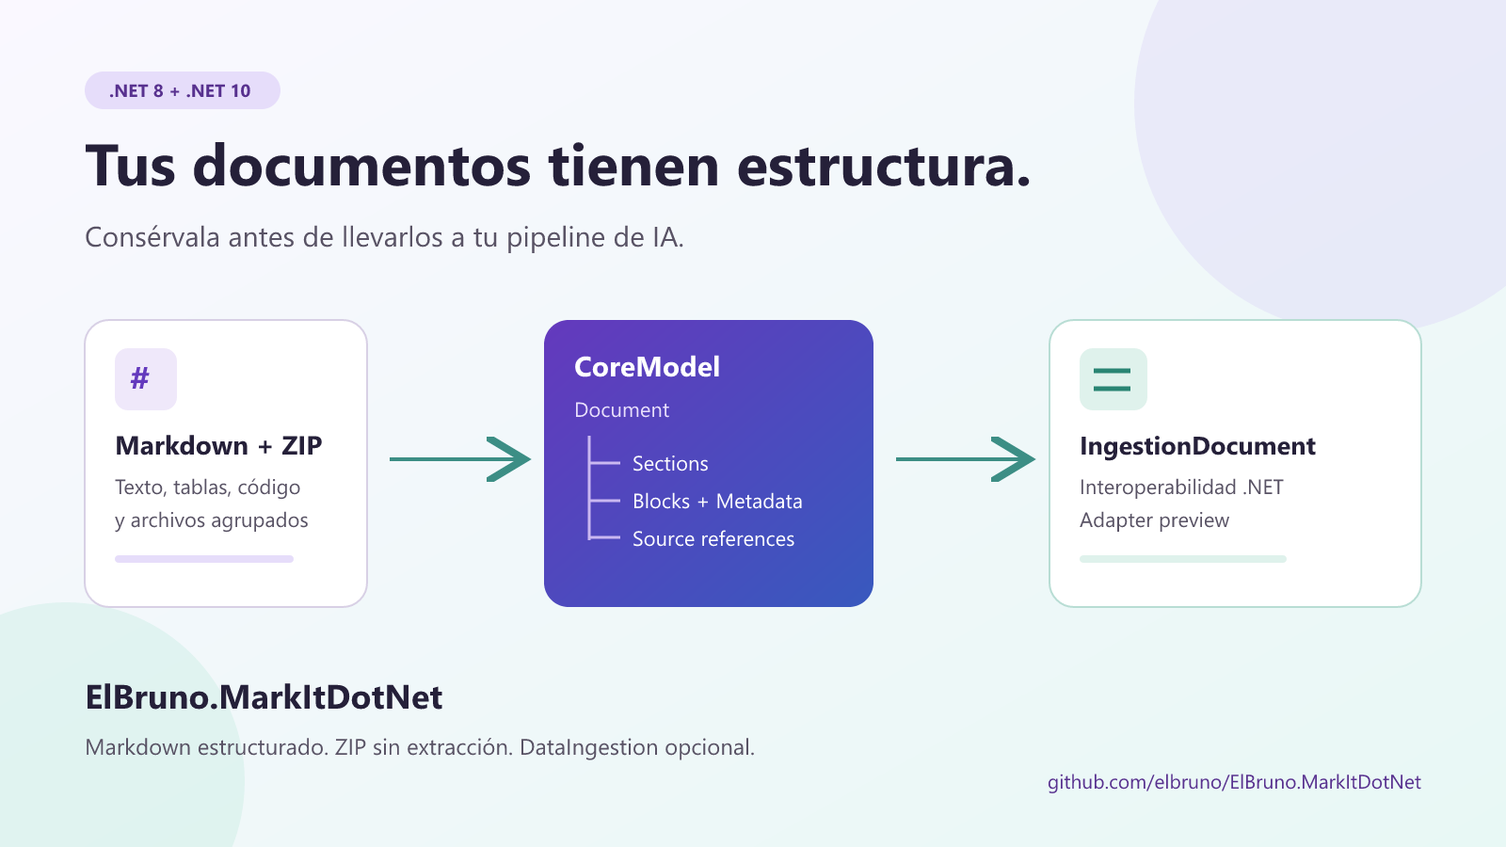
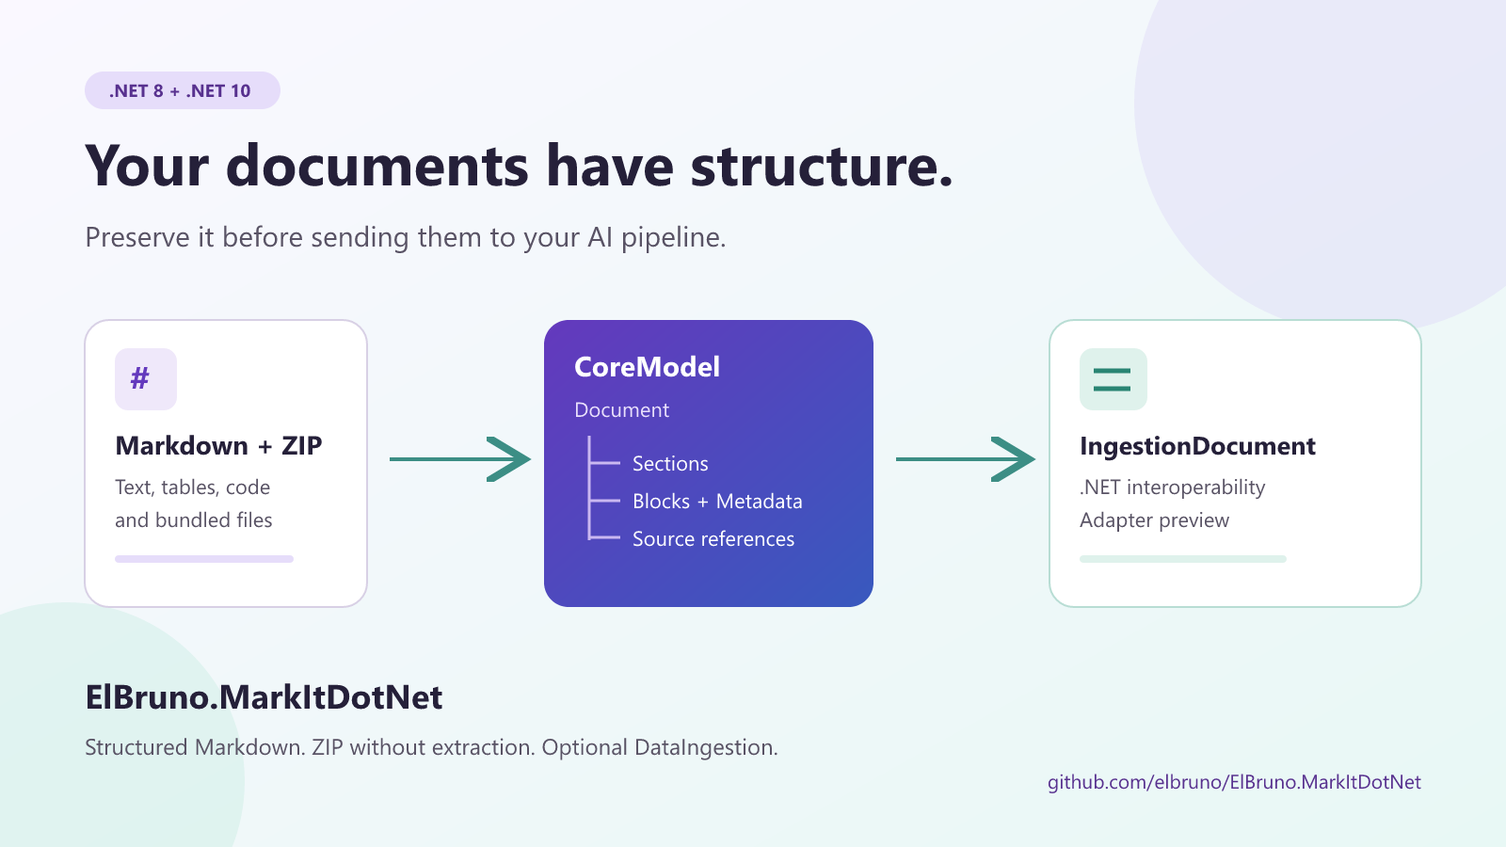
docs: translate ingestion blog and illustrations into English
Copilot-Session: ab4f57a8-6103-4b5e-8510-a93bc5ed1320

diff --git a/docs/blog-markdown-zip-data-ingestion.md b/docs/blog-markdown-zip-data-ingestion.md
@@ -1,24 +1,24 @@
-# De un ZIP a un documento listo para tu pipeline de IA, con C# y MarkItDotNet
+# From a ZIP Archive to an AI Ingestion Document with C# and MarkItDotNet
 
-![ElBruno.MarkItDotNet conecta Markdown y ZIP con documentos estructurados e interoperabilidad .NET](../images/blog-ingestion-hero.png)
+![ElBruno.MarkItDotNet connects Markdown and ZIP archives to structured documents and .NET interoperability](../images/blog-ingestion-hero.png)
 
-> Borrador para publicar y promocionar posteriormente. El adaptador DataIngestion se distribuye como `0.9.3-preview.1`. Los ejemplos de Markdown y ZIP usan el código actual del repositorio y no requieren asumir que esas funcionalidades ya estén en un release estable.
+> Draft for future publication and promotion. The DataIngestion adapter is available as `0.9.3-preview.1`. The Markdown and ZIP examples use the current repository source, without assuming those features are already available in a stable release.
 
-Hola!
+Hi!
 
-Convertir un PDF a Markdown está muy bien. Pero cuando estás preparando documentos para un pipeline de IA, aparece la siguiente pregunta: **¿qué hago con ese Markdown después?**
+Converting a PDF to Markdown is great. But when you are preparing documents for an AI pipeline, the next question is: **what do I do with that Markdown afterward?**
 
-Un documento no es solamente una cadena de texto. Tiene títulos, secciones, tablas, listas, ejemplos de código y referencias al origen. Si aplanamos todo demasiado pronto, perdemos información que puede ser útil al decidir cómo dividirlo, enriquecerlo o mostrar una cita.
+A document is more than a string. It has titles, sections, tables, lists, code examples, and references to its source. Flatten everything too early, and you lose information that could help you decide how to split it, enrich it, or display a citation.
 
-En [ElBruno.MarkItDotNet](https://github.com/elbruno/ElBruno.MarkItDotNet) agregué tres piezas para trabajar con ese siguiente paso: importación estructurada de Markdown con Markdig, un conector ZIP que no extrae archivos a disco y un adaptador opcional para `Microsoft.Extensions.DataIngestion`.
+I added three pieces to [ElBruno.MarkItDotNet](https://github.com/elbruno/ElBruno.MarkItDotNet) to support that next step: structured Markdown import with Markdig, a ZIP connector that does not extract files to disk, and an optional adapter for `Microsoft.Extensions.DataIngestion`.
 
-La idea no es implementar todo el pipeline de IA en una biblioteca. Es conectar bien sus etapas.
+The goal is not to implement an entire AI pipeline in one library. It is to connect its stages well.
 
-## Primero: qué está disponible y cómo probarlo
+## First: What Is Available and How to Try It
 
-El adaptador `ElBruno.MarkItDotNet.DataIngestion` apunta a .NET 8 y .NET 10. Su dependencia de Microsoft está en preview y queda aislada del CoreModel.
+The `ElBruno.MarkItDotNet.DataIngestion` adapter targets .NET 8 and .NET 10. Its Microsoft dependency is in preview and stays isolated from CoreModel.
 
-Para probar **el adaptador publicado** en una aplicación nueva:
+To try **the published adapter** in a new application:
 
 ```powershell
 dotnet new console -n AdapterDemo -f net10.0
@@ -26,9 +26,9 @@ Set-Location AdapterDemo
 dotnet add package ElBruno.MarkItDotNet.DataIngestion --version 0.9.3-preview.1
 ```
 
-Este comando usa el SDK de .NET 10. El adaptador también incluye un target para .NET 8. CoreModel llega como dependencia del adaptador. No es necesario instalar el paquete completo de pipelines de Microsoft para ejecutar `ToIngestionDocument()`.
+This command uses the .NET 10 SDK. The adapter also includes a .NET 8 target. CoreModel comes in as a dependency of the adapter. You do not need to install Microsoft's full pipeline package to call `ToIngestionDocument()`.
 
-Para probar **las tres piezas juntas**, el repositorio incluye una demo ejecutable que usa referencias a proyectos:
+To try **all three pieces together**, the repository includes a runnable demo that uses project references:
 
 ```powershell
 git clone https://github.com/elbruno/ElBruno.MarkItDotNet.git
@@ -36,13 +36,13 @@ Set-Location ElBruno.MarkItDotNet
 dotnet run --project src\samples\MarkdownIngestionDemo\MarkdownIngestionDemo.csproj --framework net8.0
 ```
 
-La demo genera su propio ZIP de prueba con Markdown, JSON y texto, procesa sus entradas y elimina ese archivo temporal al terminar. No necesita servicios de IA, claves API ni documentos privados.
+The demo creates its own test ZIP containing Markdown, JSON, and text, processes the entries, and deletes the temporary archive when it finishes. It does not need AI services, API keys, or private documents.
 
-## 1. El adaptador, en un ejemplo que funciona solo con NuGet
+## 1. A Minimal Adapter Example Using Only NuGet
 
-Voy a empezar por lo más pequeño: construir un documento y adaptarlo.
+Let's start small: build a document and adapt it.
 
-Este programa completo puede reemplazar el `Program.cs` de `AdapterDemo`:
+This complete program can replace `Program.cs` in `AdapterDemo`:
 
 ```csharp
 using ElBruno.MarkItDotNet.CoreModel;
@@ -88,13 +88,13 @@ foreach (var element in ingestion.EnumerateContent())
 }
 ```
 
-El resultado mantiene el identificador del documento. El título pasa a un encabezado de nivel 1; el encabezado de la sección y el párrafo se convierten en elementos nativos de Microsoft.
+The result keeps the document identifier. The title becomes a level 1 header, while the section heading and paragraph become native Microsoft ingestion elements.
 
-No hay una llamada a un LLM escondida aquí. No hay embeddings ni indexación automática. Es un cambio de representación para que otros componentes puedan consumir el documento.
+There is no hidden LLM call here. No embeddings or automatic indexing. This is a change of representation so that other components can consume the document.
 
-## 2. Markdown deja de ser solamente un string
+## 2. Markdown Becomes More Than a String
 
-En la demo del repositorio, este Markdown es nuestra entrada:
+In the repository demo, this Markdown is our input:
 
 ````markdown
 # Deployment guide
@@ -119,7 +119,7 @@ Console.WriteLine("Ready!");
 > Review before deploying.
 ````
 
-La nueva API de importación es intencionalmente pequeña:
+The new import API is intentionally small:
 
 ```csharp
 using ElBruno.MarkItDotNet.Markdown;
@@ -131,15 +131,15 @@ Console.WriteLine($"Format: {model.Metadata.SourceFormat}");
 Console.WriteLine($"Document ID: {model.Id}");
 ```
 
-Markdig interpreta CommonMark y sus extensiones avanzadas. El parser transforma el resultado en `Document`, `DocumentSection` y bloques del CoreModel.
+Markdig parses CommonMark and its advanced extensions. The parser maps the result to `Document`, `DocumentSection`, and CoreModel blocks.
 
-El primer H1 inicial se usa como título. Los demás encabezados forman la jerarquía de secciones. Los párrafos, tablas, listas, código y citas tienen representaciones propias; el contenido de bloques no modelados se conserva como Markdown crudo.
+An initial H1 becomes the document title. Other headings form the section hierarchy. Paragraphs, tables, lists, code, and block quotes have their own representations; unsupported block content is retained as raw Markdown.
 
-Eso también significa que el conversor Markdown existente mantiene su comportamiento: **la importación estructurada es opcional**, no un reemplazo obligatorio del pass-through.
+The existing Markdown converter keeps its behavior: **structured import is optional**, not a mandatory replacement for Markdown pass-through.
 
-### Recorrer las secciones sin perder su jerarquía
+### Walk Sections Without Losing Their Hierarchy
 
-No alcanza con leer `model.Sections`: las secciones pueden tener subsecciones. Este helper recorre ambas:
+Reading only `model.Sections` is not enough: sections can contain subsections. This helper walks both:
 
 ```csharp
 using ElBruno.MarkItDotNet.CoreModel;
@@ -162,15 +162,15 @@ static void PrintSections(
     }
 }
 
-// Dentro de tu programa:
+// Inside your program:
 // PrintSections(model.Sections);
 ```
 
-En la entrada de ejemplo aparecen `ParagraphBlock`, `TableBlock`, `ListBlock`, `CodeBlock` y `QuoteBlock`.
+The example input produces `ParagraphBlock`, `TableBlock`, `ListBlock`, `CodeBlock`, and `QuoteBlock` instances.
 
-### Inspeccionar un checklist
+### Inspect a Checklist
 
-Para nuestro documento de ejemplo, `Checklist` es una sección de primer nivel:
+In our example document, `Checklist` is a top-level section:
 
 ```csharp
 var checklist = model.Sections.Single(
@@ -183,11 +183,11 @@ foreach (var item in tasks.Items)
 }
 ```
 
-`IsChecked` es nullable: `true` y `false` corresponden a tareas; `null` identifica un ítem de lista convencional.
+`IsChecked` is nullable: `true` and `false` represent task items; `null` identifies an ordinary list item.
 
-## 3. Guardar estructura y volver a generar Markdown
+## 3. Save the Structure and Render Markdown Again
 
-Para inspeccionar el modelo completo, serializarlo a JSON es una buena opción:
+Serializing the model to JSON is a useful way to inspect its full structure:
 
 ```csharp
 using System.Text.Json;
@@ -199,9 +199,9 @@ var json = JsonSerializer.Serialize(
 Console.WriteLine(json);
 ```
 
-Los bloques usan discriminadores polimórficos como `$type`. El JSON permite ver qué parte del contenido es un párrafo, una tabla o un bloque de código, además de sus IDs y referencias de origen.
+Blocks use polymorphic discriminators such as `$type`. The JSON shows which content is a paragraph, a table, or a code block, along with its IDs and source references.
 
-Y podemos volver a Markdown:
+We can also render Markdown again:
 
 ```csharp
 using ElBruno.MarkItDotNet.CoreModel;
@@ -210,11 +210,11 @@ var rendered = MarkdownRenderer.Render(model);
 Console.WriteLine(rendered);
 ```
 
-Hay una distinción importante: `OriginalMarkdown` conserva la sintaxis del **bloque**, por ejemplo negritas, enlaces o cercas de código. El renderer prioriza ese valor cuando existe.
+There is an important distinction: `OriginalMarkdown` retains the syntax of the **block**, including bold text, links, or code fences. The renderer prioritizes that value when it is present.
 
-Esto no promete una reproducción byte por byte del archivo completo: se pueden normalizar separaciones entre bloques, saltos de línea y el título. Tampoco promete que editar `Text` invalide automáticamente `OriginalMarkdown`.
+This is not a promise of byte-for-byte reproduction of the entire file: spacing between blocks, line endings, and the title may be normalized. Editing `Text` also does not automatically invalidate `OriginalMarkdown`.
 
-Si quiero reemplazar un párrafo parseado, hago explícita esa decisión:
+If I want to replace a parsed paragraph, I make that decision explicit:
 
 ```csharp
 var paragraph = model.Sections
@@ -231,13 +231,13 @@ var edited = paragraph with
 Console.WriteLine(edited.Text);
 ```
 
-`with` crea un bloque nuevo; para renderizar el documento modificado hay que incorporarlo a una nueva sección o documento. El bloque original no cambia.
+`with` creates a new block. To render the updated document, you must include that block in a new section or document. The original block does not change.
 
-## 4. ZIP como fuente de documentos, no como carpeta temporal
+## 4. ZIP as a Document Source, Not a Temporary Folder
 
-![Diagrama del pipeline: descubrir entradas ZIP, convertir a Markdown, parsear CoreModel y adaptar a IngestionDocument](../images/blog-ingestion-pipeline.png)
+![Pipeline diagram: discover ZIP entries, convert to Markdown, parse CoreModel, and adapt to IngestionDocument](../images/blog-ingestion-pipeline.png)
 
-Un ZIP suele llegar como un paquete de documentación: guías, notas, archivos JSON o reportes. El conector expone sus archivos como `SourceDocument` a través de `IDocumentSource`.
+A ZIP often arrives as a documentation bundle: guides, notes, JSON files, or reports. The connector exposes its files as `SourceDocument` instances through `IDocumentSource`.
 
 ```csharp
 using ElBruno.MarkItDotNet.Connectors;
@@ -263,15 +263,15 @@ await foreach (var document in source.GetDocumentsAsync(timeout.Token))
     Console.WriteLine(document.Metadata[SourceMetadataKeys.ArchiveEntryPath]);
 
     await using var content = await document.OpenReadAsync(timeout.Token);
-    // Consumir el stream aqui, antes de salir de esta iteracion.
+    // Consume the stream here, before leaving this iteration.
 }
 ```
 
-La enumeración descubre los archivos. `OpenReadAsync()` abre su contenido cuando lo necesito. El stream mantiene vivo el archivo ZIP hasta que se dispone.
+Enumeration discovers the files. `OpenReadAsync()` opens their content on demand. The returned stream keeps the ZIP archive open until the stream is disposed.
 
-Las entradas de directorio no se devuelven como documentos. Los nombres de entrada se usan como referencias y **no se convierten en rutas de extracción**.
+Directory entries are not returned as documents. Entry names serve as references and **are not turned into extraction paths**.
 
-Para aplicaciones que usan dependency injection:
+For applications that use dependency injection:
 
 ```csharp
 using ElBruno.MarkItDotNet.Connectors;
@@ -289,26 +289,26 @@ using var provider = services.BuildServiceProvider();
 var source = provider.GetRequiredService<IDocumentSource>();
 ```
 
-Ese ejemplo de DI requiere además `Microsoft.Extensions.DependencyInjection`, el contenedor concreto. El paquete de conectores proporciona las extensiones y abstracciones, no ese contenedor.
+This DI example also requires `Microsoft.Extensions.DependencyInjection`, the concrete container. The connectors package provides registration extensions and abstractions, not that container.
 
-### Los límites importan
+### Limits Matter
 
-| Opción | Valor por defecto | Qué controla |
+| Option | Default | What It Controls |
 | --- | --- | --- |
-| `MaxArchiveSizeBytes` | 100 MiB | Tamaño comprimido del archivo en descubrimiento |
-| `MaxEntrySizeBytes` | 25 MiB | Tamaño declarado por entrada y tope durante las lecturas |
-| `MaxTotalUncompressedBytes` | 250 MiB | Suma de tamaños declarados de entradas elegibles |
-| `MaxEntries` | 10.000 | Cantidad de entradas, incluidos directorios |
+| `MaxArchiveSizeBytes` | 100 MiB | Compressed archive size during discovery |
+| `MaxEntrySizeBytes` | 25 MiB | Declared entry size and the cap applied during reads |
+| `MaxTotalUncompressedBytes` | 250 MiB | Sum of declared sizes of eligible entries |
+| `MaxEntries` | 10,000 | Entry count, including directories |
 
-Las entradas que superan el límite individual se omiten con un warning. Si se supera el tamaño del archivo, la cantidad de entradas o el total elegible, el conector rechaza la operación.
+Entries exceeding the per-entry limit are skipped with a warning. If the archive size, entry count, or eligible total exceeds its limit, the connector rejects the operation.
 
-La lectura tiene un tope individual adicional. El límite total no es un contador compartido de todas las lecturas concurrentes o repetidas; es un control de descubrimiento basado en los tamaños declarados.
+Reads have an additional per-entry cap. The total limit is not a shared counter across concurrent or repeated reads; it is a discovery-time check based on declared sizes.
 
-No conviene anunciar esto como una protección universal contra ZIP maliciosos. No hay extracción recursiva de ZIP anidados, ni un presupuesto de CPU de descompresión, ni un límite configurable de ratio de compresión. En producción seguiría usando límites de concurrencia, aislamiento y políticas propias para archivos no confiables.
+This should not be presented as universal protection against malicious ZIP archives. There is no recursive extraction of nested ZIPs, decompression CPU budget, or configurable compression-ratio limit. In production, I would still use concurrency limits, isolation, and application-specific policies for untrusted files.
 
-## 5. ZIP, conversión, parser y adaptador: el flujo completo
+## 5. ZIP, Conversion, Parsing, and Adaptation: The Complete Flow
 
-Las cuatro etapas se pueden conectar sin escribir archivos intermedios:
+The four stages can be connected without writing intermediate files:
 
 ```csharp
 using ElBruno.MarkItDotNet;
@@ -344,17 +344,17 @@ await foreach (var document in source.GetDocumentsAsync(timeout.Token))
 }
 ```
 
-Este fragmento reutiliza `source` y `timeout` del ejemplo anterior. El programa completo está en la demo.
+This snippet reuses `source` and `timeout` from the earlier example. The complete program is in the demo.
 
-La allowlist es una decisión de la aplicación. Podemos ampliarla a formatos de los conversores registrados, pero un ZIP no hace que todos sus contenidos sean compatibles por arte de magia.
+The allowlist is an application decision. We can extend it to formats supported by registered converters, but a ZIP does not magically make every file inside it compatible.
 
-También hay un detalle de trazabilidad: el `sourcePath` incluye el archivo ZIP y la entrada, pero los offsets que produce el parser apuntan al **Markdown convertido**, no a posiciones equivalentes del PDF o DOCX original.
+There is also a traceability detail: `sourcePath` includes the ZIP archive and entry, but the parser's offsets refer to the **converted Markdown**, not equivalent positions in the original PDF or DOCX.
 
-Y otra precisión: sin archivos intermedios no significa memoria constante. El conversor produce un string y el parser construye un árbol; el ZIP solo evita extraer todas las entradas a disco.
+One more distinction: no intermediate files does not mean constant memory usage. The converter produces a string and the parser builds a tree; the ZIP connector avoids extracting every entry to disk.
 
-## 6. Tablas nativas, no solamente texto con barras
+## 6. Native Tables, Not Just Text with Pipes
 
-Para el adaptador, una tabla se convierte en `IngestionDocumentTable` con una matriz de celdas:
+The adapter maps a table to `IngestionDocumentTable` with a cell matrix:
 
 ```csharp
 using Microsoft.Extensions.DataIngestion;
@@ -370,13 +370,13 @@ Console.WriteLine($"Header: {table.Cells[0, 0]?.Text}");
 Console.WriteLine($"Value: {table.Cells[1, 1]?.Text}");
 ```
 
-Para nuestra entrada, la primera fila contiene `Setting` y `Value`; la segunda contiene `Mode` y `Preview`.
+For our input, the first row contains `Setting` and `Value`; the second contains `Mode` and `Preview`.
 
-Esto deja la estructura disponible para componentes posteriores que necesiten tratar las tablas de manera diferente a un párrafo.
+This makes the structure available to downstream components that need to handle tables differently from paragraphs.
 
-## 7. IDs y origen también viajan
+## 7. IDs and Source References Travel Too
 
-Los metadatos del adaptador usan el prefijo `markitdotnet.`:
+The adapter's metadata uses the `markitdotnet.` prefix:
 
 ```csharp
 var root = ingestion.Sections.Single();
@@ -403,48 +403,48 @@ foreach (var element in ingestion.EnumerateContent())
 }
 ```
 
-La metadata del documento se guarda en la sección raíz. Las referencias del bloque se guardan en su elemento correspondiente; `PageNumber` también se copia cuando existe.
+Document metadata is stored on the root section. Block references are stored on the corresponding element; `PageNumber` is also copied when present.
 
-El ID generado por el parser es determinista para el mismo contenido y source path. Eso no implica que permanezca igual después de editar el archivo, moverlo o cambiar el Markdown convertido.
+The parser generates a deterministic ID for the same content and source path. That does not mean the ID stays the same after editing the file, moving it, or changing the converted Markdown.
 
-Las listas, citas y bloques de código no tienen todos un equivalente nativo específico en este adaptador: se representan como párrafos con Markdown y metadata del tipo de bloque. La jerarquía interna de cada lista o cita no se vuelve una jerarquía de elementos de Microsoft.
+Lists, block quotes, and code blocks do not all have dedicated native equivalents in this adapter: they are represented as paragraphs with Markdown and block-type metadata. The internal hierarchy of a list or quote is not mapped to a hierarchy of Microsoft ingestion elements.
 
-## ¿Por qué un paquete opcional?
+## Why an Optional Package?
 
-Porque no todos los consumidores necesitan la misma cosa.
+Because not every consumer needs the same thing.
 
-Si quiero convertir un archivo a Markdown, sigo usando el paquete principal. Si quiero inspeccionar la estructura de Markdown, uso el parser opcional. Si quiero integrar CoreModel con componentes de Microsoft, agrego DataIngestion.
+If I want to convert a file to Markdown, I keep using the main package. If I want to inspect Markdown structure, I use the optional parser. If I want to integrate CoreModel with Microsoft components, I add DataIngestion.
 
-El adaptador referencia `Microsoft.Extensions.DataIngestion.Abstractions`. No vuelve a parsear Markdown con el lector de Microsoft ni obliga a la biblioteca base a depender de un API preview.
+The adapter references `Microsoft.Extensions.DataIngestion.Abstractions`. It does not parse Markdown again with Microsoft's reader or force the base library to depend on a preview API.
 
-El resultado es un límite de responsabilidad bastante claro: **MarkItDotNet prepara y representa documentos; tu aplicación decide cómo usarlos**.
+That gives us a clear boundary of responsibility: **MarkItDotNet prepares and represents documents; your application decides how to use them**.
 
-## Para probarlo y seguir el proyecto
+## Try It and Follow the Project
 
-El ejemplo completo de este artículo está en [MarkdownIngestionDemo](../src/samples/MarkdownIngestionDemo/Program.cs). Se puede ejecutar en .NET 8 o .NET 10 cambiando `--framework`.
+The complete example for this article is in [MarkdownIngestionDemo](../src/samples/MarkdownIngestionDemo/Program.cs). You can run it on .NET 8 or .NET 10 by changing `--framework`.
 
-La [guía de importación Markdown](markdown-import.md), la [guía del conector ZIP](zip-connector.md) y la [guía del adaptador](data-ingestion.md) explican cada API por separado.
+The [Markdown import guide](markdown-import.md), [ZIP connector guide](zip-connector.md), and [adapter guide](data-ingestion.md) cover each API separately.
 
-El código y los paquetes están aquí:
+Find the source and packages here:
 
-- [Repositorio de ElBruno.MarkItDotNet](https://github.com/elbruno/ElBruno.MarkItDotNet).
-- [Adaptador DataIngestion 0.9.3-preview.1 en NuGet](https://www.nuget.org/packages/ElBruno.MarkItDotNet.DataIngestion/0.9.3-preview.1).
+- [ElBruno.MarkItDotNet repository](https://github.com/elbruno/ElBruno.MarkItDotNet).
+- [DataIngestion adapter 0.9.3-preview.1 on NuGet](https://www.nuget.org/packages/ElBruno.MarkItDotNet.DataIngestion/0.9.3-preview.1).
 - [Microsoft.Extensions.DataIngestion](https://learn.microsoft.com/dotnet/dataingestion/microsoft-extensions-dataingestion).
 
-Si estás preparando documentos para IA con C#, prueba la demo. A veces el siguiente paso útil no es agregar otra llamada al modelo: es conservar mejor la estructura que ya tienen tus documentos.
+If you are preparing documents for AI with C#, give the demo a try. Sometimes the most useful next step is not another model call: it is preserving more of the structure your documents already have.
 
-Saludos!
+Cheers!
 
 Bruno
 
-## Material para la promoción posterior
+## Materials for Future Promotion
 
-**Título corto:** Markdown + ZIP + DataIngestion: documentos estructurados con C#.
+**Short title:** Markdown + ZIP + DataIngestion: Structured Documents with C#.
 
-**Extracto:** ElBruno.MarkItDotNet incorpora importación estructurada de Markdown, lectura de ZIP sin extracción y un adaptador opcional para Microsoft.Extensions.DataIngestion. Una demo ejecutable conecta las tres etapas con C#.
+**Excerpt:** ElBruno.MarkItDotNet adds structured Markdown import, ZIP reading without extraction, and an optional adapter for Microsoft.Extensions.DataIngestion. A runnable C# demo connects all three pieces.
 
-**Texto para redes:** Un documento no es solo un string. Con ElBruno.MarkItDotNet puedes conservar secciones, tablas y referencias de origen, leer entradas ZIP sin extraerlas a disco y adaptar CoreModel a IngestionDocument. El adaptador está en preview; el repo incluye una demo completa. Código: https://github.com/elbruno/ElBruno.MarkItDotNet
+**Social post:** A document is more than a string. With ElBruno.MarkItDotNet, you can preserve sections, tables, and source references, read ZIP entries without extracting them to disk, and adapt CoreModel to IngestionDocument. The adapter is in preview, and the repo includes a complete demo. Code: https://github.com/elbruno/ElBruno.MarkItDotNet
 
-**Imágenes:** portada y diagrama originales en PNG, con fuentes SVG editables en `images/`. Al publicar fuera de GitHub, subir las dos imágenes y reemplazar las rutas relativas de este borrador por las URLs del blog.
+**Images:** Original hero and pipeline diagram in PNG, with editable SVG sources in `images/`. When publishing outside GitHub, upload both images and replace this draft's relative paths with the blog's image URLs.
 
-**Nota editorial:** artículo preparado con ayuda de IA; ejemplos contrastados con las APIs del repositorio. Revisar las versiones publicadas de Markdown y Connectors antes de convertir las instrucciones desde source en instrucciones de instalación por NuGet.
+**Editorial note:** This article was prepared with AI assistance; examples were checked against the repository APIs. Verify the published Markdown and Connectors versions before replacing the source-based setup with NuGet installation instructions.
